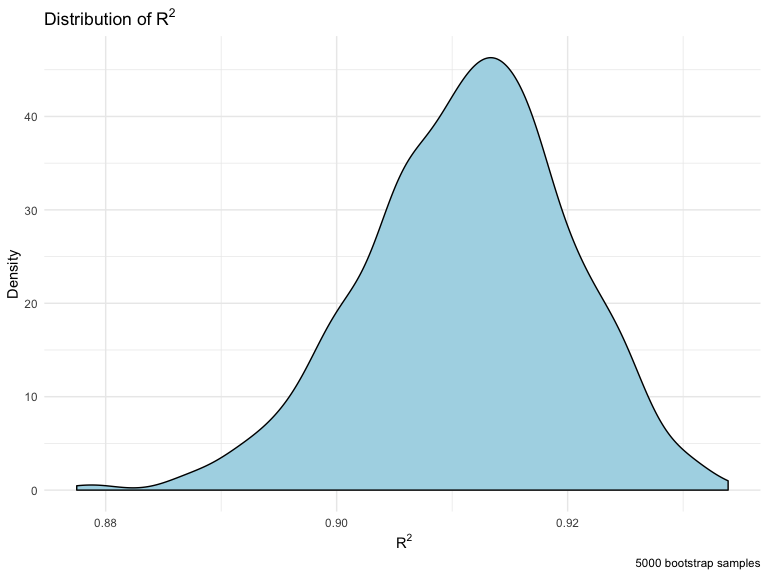
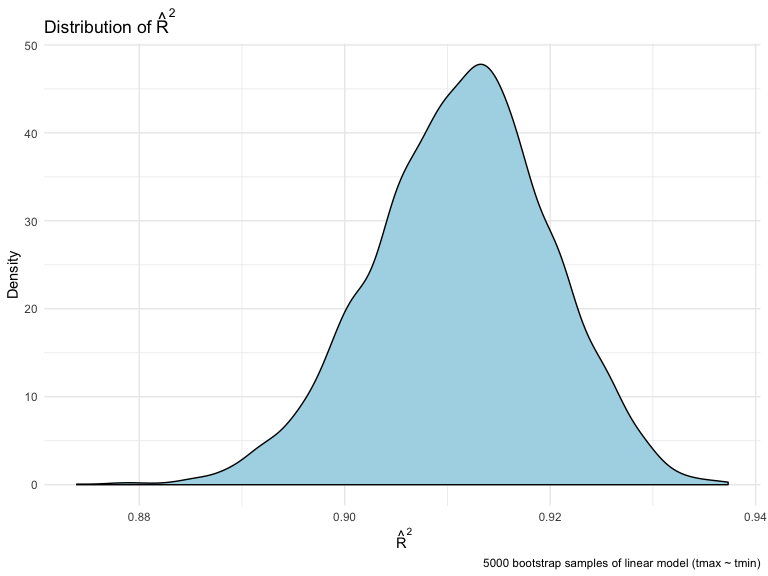
q2 - (n=5000) compute 95%CI and comment

diff --git a/p8105_hw6_dz2426.md b/p8105_hw6_dz2426.md
@@ -120,8 +120,8 @@ fit1 %>%
 **Comments:**  
 The multiple linear regression mode that I am interested in is how the
 average number of cigarettes smoked by the pregnant women per day
-(‘smoken’) and their age at delivery (‘momage’) predict the baby’s
-birth weight (‘bwt’).  
+(`smoken`) and their age at delivery (`momage`) predict the baby’s birth
+weight (`bwt`).  
 Results show that for every unit increase in the average number of
 cigarettes smoked per day during pregnancy, baby’s birthweight decreases
 by 5.971 g, adjusting for mother’s age at delivery. For every unit
@@ -320,7 +320,7 @@ set.seed(1)
 
 boot_strap_results = 
   weather_df %>% 
-  bootstrap(n = 1000) %>% 
+  bootstrap(n = 5000) %>% 
   mutate(
     models = map(strap, ~lm(tmax ~ tmin, data = .x)),
     tidy_models = map(models, broom::tidy), # include estimate, term
@@ -339,7 +339,7 @@ boot_strap_results =
 boot_strap_results
 ```
 
-    ## # A tibble: 1,000 x 2
+    ## # A tibble: 5,000 x 2
     ##    r_squared log_b0xb1
     ##        <dbl>     <dbl>
     ##  1     0.907      2.04
@@ -352,28 +352,53 @@ boot_strap_results
     ##  8     0.907      2.00
     ##  9     0.916      2.01
     ## 10     0.918      2.02
-    ## # … with 990 more rows
+    ## # … with 4,990 more rows
 
 ``` r
+# Density plot of R-squared
 boot_strap_results %>% 
   ggplot(aes(x = r_squared)) +
   geom_density(fill = "lightblue") +
-  labs(x = ~R^2,
+  labs(x = ~hat(R)^2,
        y = "Density",
-       title = "Distribution of" ~R^2,
-       caption = "5000 bootstrap samples")
+       title = "Distribution of" ~hat(R)^2,
+       caption = "5000 bootstrap samples of linear model (tmax ~ tmin)")
 ```
 
 <img src="p8105_hw6_dz2426_files/figure-gfm/unnamed-chunk-13-1.png" width="100%" />
 
 ``` r
+# 95% Confidence Interval
+CI_rsquared = round(quantile(pull(boot_strap_results, r_squared), probs = c(0.025,0.975)), digits = 2)
+```
+
+**Comments:**  
+The density plot of `R-squared` shows a left-skewed distribution, and
+tells us the majority of `R-squared` estimates is around 0.91. This
+indicates a strong correlation and good fit. It also means that the vast
+majority (~91%) of the variance in the response variable `tmax` can be
+explained collectively by the predictor variable `tmin`.  
+The 95% CI for `R-squared` is (0.89, 0.93).
+
+``` r
+# Density plot of log_b0xb1
 boot_strap_results %>% 
   ggplot(aes(x = log_b0xb1)) +
   geom_density(fill = "lightyellow") +
   labs(x = ~log(hat(beta)[0] %*% hat(beta)[1]),
        y = "Density",
        title = "Distribution of" ~log(hat(beta)[0] %*% hat(beta)[1]),
-       caption = "5000 bootstrap samples")
+       caption = "5000 bootstrap samples of linear model (tmax ~ tmin)")
 ```
 
 <img src="p8105_hw6_dz2426_files/figure-gfm/unnamed-chunk-14-1.png" width="100%" />
+
+``` r
+# 95% Confidence Interval
+CI_log_b0xb1 = round(quantile(pull(boot_strap_results, log_b0xb1), probs = c(0.025,0.975)), digits = 2)
+```
+
+**Comments:**  
+The density plot of `log_b0xb1` indicates a normal distribution of
+`log_b0xb1` estimates, centering around 2.025.  
+The 95% CI for `log_b0xb1` is (1.96, 2.06).
